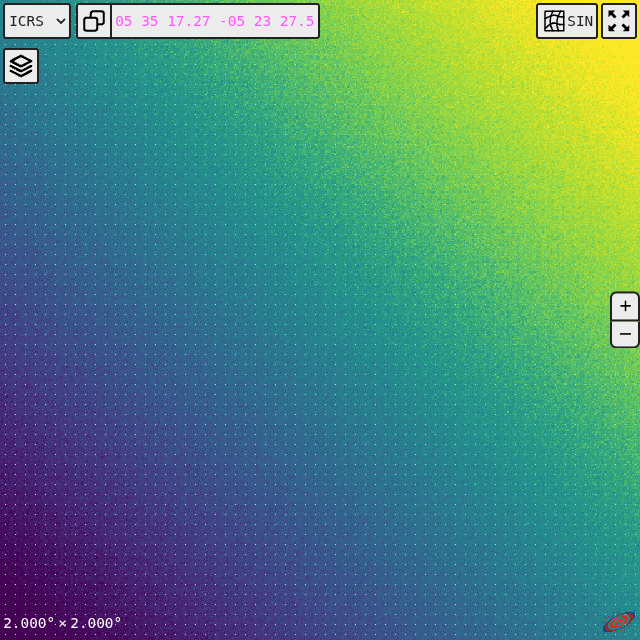
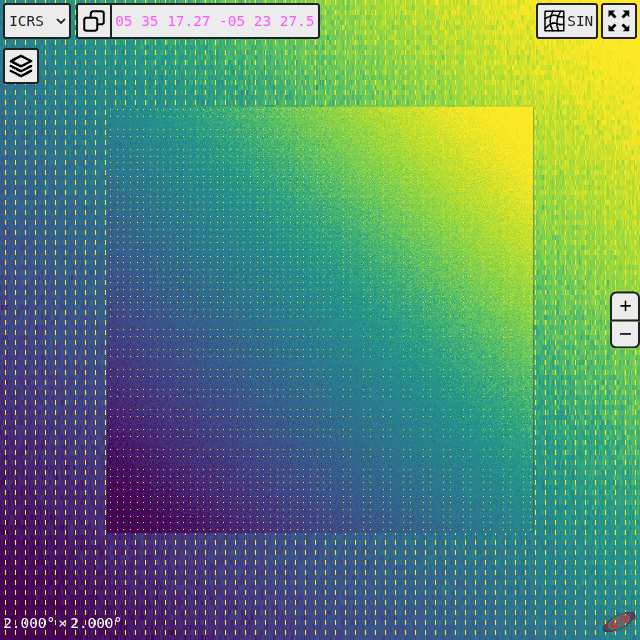
perf(fits): rebuild the refinement mesh only when the view moves
update() ran on every frame, and every frame it re-sampled the viewport,
re-projected every vertex and re-uploaded three VAO buffers — whether or
not the camera or the level had changed. On a thread that also has to
service the tile reads still in flight, that is contention with the very
work it is waiting for.

The mesh is now keyed on the tile rectangle and the level it was built
for, and skipped when neither has moved.

This does not make the 4 GB image refine at high zoom either; that
remains unexplained. The 64 MB image still resolves to individual pixels.

diff --git a/src/core/src/renderable/image/streamed.rs b/src/core/src/renderable/image/streamed.rs
@@ -282,6 +282,8 @@ pub struct Refine {
     num_indices: Vec<u32>,
     /// The tile each patch of the current mesh draws, in patch order.
     patch_tiles: Vec<TileId>,
+    /// What the current mesh was built for, so an unchanged view can skip it.
+    built_for: Option<((u64, u64, u64, u64), u32)>,
 }
 
 /// The image-pixel rectangle the camera can currently see, as
@@ -488,6 +490,7 @@ impl Refine {
             indices,
             num_indices: vec![],
             patch_tiles: vec![],
+            built_for: None,
         })
     }
 
@@ -587,6 +590,7 @@ impl Refine {
             // Off screen: keep the textures, drop the mesh.
             self.num_indices.clear();
             self.patch_tiles.clear();
+            self.built_for = None;
             return Ok(redraw);
         };
 
@@ -599,6 +603,7 @@ impl Refine {
         if level >= grid.level_count() - 1 {
             self.num_indices.clear();
             self.patch_tiles.clear();
+            self.built_for = None;
             return Ok(redraw);
         }
 
@@ -647,6 +652,15 @@ impl Refine {
         }
         self.evict(&wanted);
 
+        // Rebuilding the mesh means re-projecting every vertex and re-uploading
+        // three buffers. Doing that on a frame where neither the view nor the
+        // level has moved is pure contention with the tile reads still in
+        // flight, which share this thread.
+        let signature = ((tx0, ty0, tx1, ty1), level);
+        if self.built_for == Some(signature) && !self.num_indices.is_empty() {
+            return Ok(redraw);
+        }
+
         // The mesh spans whole patches so that its patch grid lines up with the
         // tile grid: `grid::vertices` breaks its patches on multiples of the
         // patch size, and the textures are addressed by that same division.
@@ -674,9 +688,12 @@ impl Refine {
         // disagree about the grid and binding textures by position would draw
         // the wrong pixels. Drawing nothing is the safe answer; the overview
         // still shows.
+        self.built_for = Some(signature);
+
         if num_indices.len() != patch_tiles.len() {
             self.num_indices.clear();
             self.patch_tiles.clear();
+            self.built_for = None;
             return Ok(redraw);
         }
 
